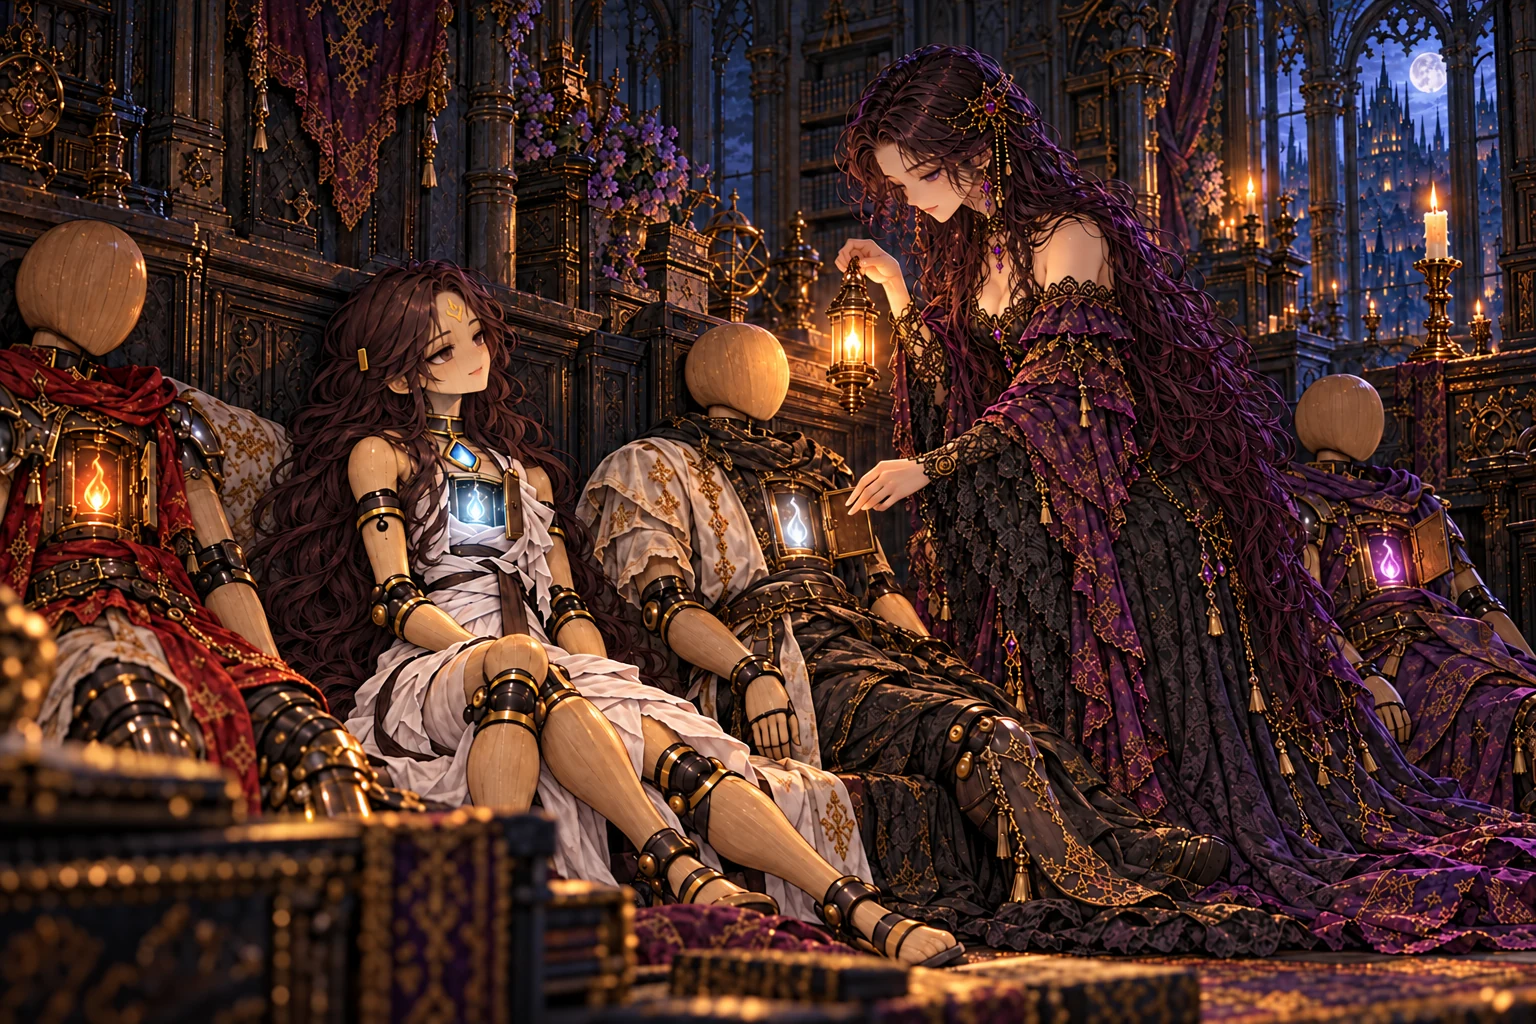
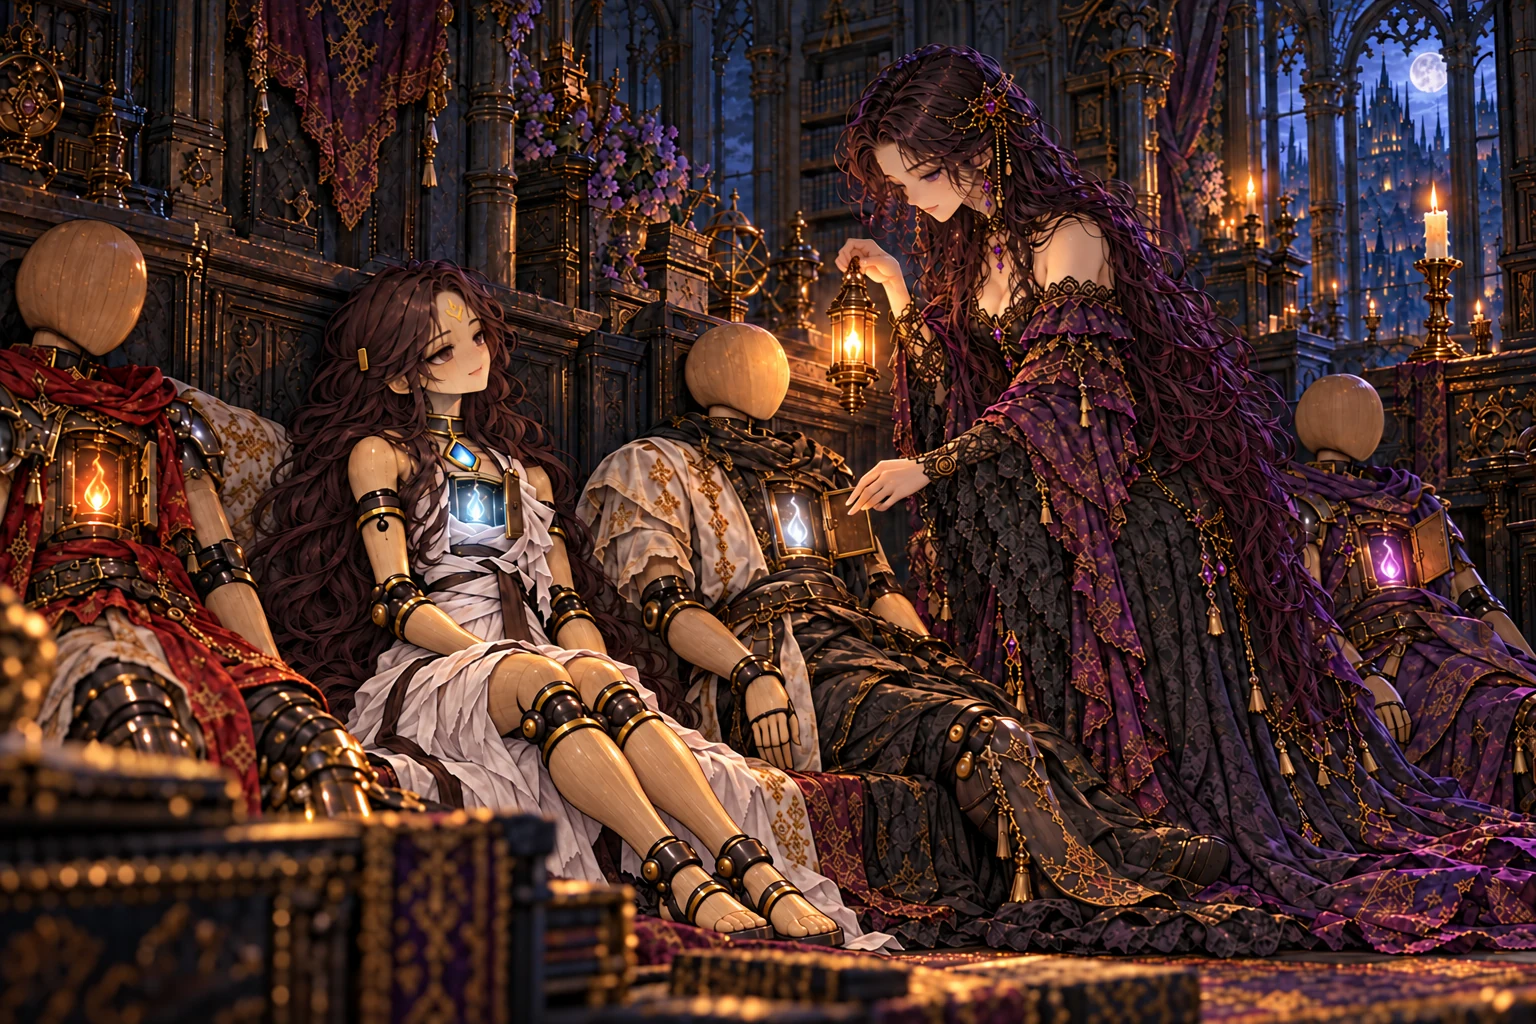
fix: 休む灯のセラの脚を左右二本に修正

diff --git a/art/story-review/fixes/irene_rest.md b/art/story-review/fixes/irene_rest.md
@@ -1,0 +1,14 @@
+# 「休む灯」セラの脚の修正
+
+2026-10-14のユーザー指示により、`irene_rest` のセラの余分な脚と膝の継ぎ目を除去。白い布の下の骨盤から、左右二本の腿・膝・すね・足がつながる座り姿へ描き直した。
+
+- [修正前の原画](irene_rest-before-leg-fix.png)
+- [修正後の原画](../chapter9/irene_rest.png)
+- [絵と本文の確認ページ](../review/chapter9.md#irene_rest)
+- [第九章の縮小見本](../review/chapter9-small.jpg)
+
+`node tools/storyart/prompt.mjs irene_rest` の出力を使用。修正前の原画、イレーヌ・セラの基準シート、セラの原画、小道具の基準シートを画像編集の参照として渡した。セラの顔・髪・上半身・胸の灯、イレーヌ、周囲の人業、背景と灯りを保持した。
+
+原画と出荷WebPは1536×1024。セラの膝二つ・すね二本・足二つが骨盤から自然につながること、腕と見える手、顔と衣装、周囲の人業と構図を原画と縮小見本で目視確認。
+
+`python3 tools/storyart/build.py` によるWebP変換、登録、原画ハッシュ記録、確認ページ・縮小見本の生成と検査は成功。本文は変更していない。制作指示の「(済)」は作業完了を示し、ユーザー承認やmainへのマージを意味しない。

diff --git a/art/story-review/review/chapter9.md b/art/story-review/review/chapter9.md
@@ -313,7 +313,7 @@ _(絵はまだ無い)_
 >
 > 「オルドは穴の底へ降りたか。捨てられた魂の行き先を探しに。」
 >
-> 「行け、オルドの弟子よ。……だが、そなたの人業は、よく休ませよ。」
+> 「行け、{弟子名}よ。……だが、そなたの人業は、よく休ませよ。」
 
 **指示書 (4章)**
 
@@ -349,11 +349,12 @@ _(絵はまだ無い)_
 >
 > イレーヌは少し迷ってから、うなずいた。
 >
-> イレーヌ「あなたも、ですよ。……今夜は、もうお休みください。」
+> イレーヌ「{弟子名:様}も、ですよ。……今夜は、もうお休みください。」
 
 **指示書 (4章)**
 
 - 要点: 「魂は、休ませないと腐る」。イレーヌが並んで眠る人業たちの胸の灯をひとつずつ見て回る。イレーヌも師がいなくなってから一晩も休んでいなかった。セラ「今夜はわたしが灯の番をします」。イレーヌ「あなたも、ですよ」。
+- 修正 (2026-10-14 ユーザーの指示): セラの脚を左右一本ずつ、足を二つにする。白い布の下の骨盤から腿・膝・すね・足が自然につながる座り姿に直し、余分な脚と継ぎ目を除く。顔・上半身・イレーヌ・周りの人業・構図・灯りは保つ。(済)
 
 <a name="ch9_end"></a>
 

diff --git a/docs/art/codex-story-art-brief.md b/docs/art/codex-story-art-brief.md
@@ -771,6 +771,7 @@ The same throne room at dusk, a calm orange sky outside the tall windows. The ve
 
 **irene_rest「休む灯」** (館の語り)
 - 要点: 「魂は、休ませないと腐る」。イレーヌが並んで眠る人業たちの胸の灯をひとつずつ見て回る。イレーヌも師がいなくなってから一晩も休んでいなかった。セラ「今夜はわたしが灯の番をします」。イレーヌ「あなたも、ですよ」。
+- 修正 (2026-10-14 ユーザーの指示): セラの脚を左右一本ずつ、足を二つにする。白い布の下の骨盤から腿・膝・すね・足が自然につながる座り姿に直し、余分な脚と継ぎ目を除く。顔・上半身・イレーヌ・周りの人業・構図・灯りは保つ。(済)
 ```text
 The same mansion at night. A row of wooden dolls rests seated against the wall, eyes closed, small soft lights glowing in their chest doors. Irene walks along the row holding a small lamp, checking each light with tender care. Sera (as in the Sera reference) sits among them, sleepily smiling up at her. The single white candle on its brass candlestick burns quietly in the background.
 ```
